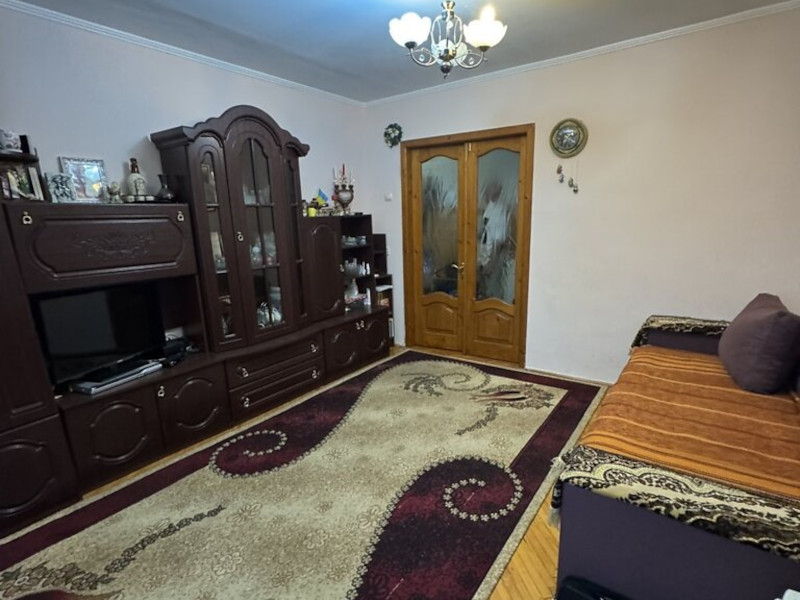
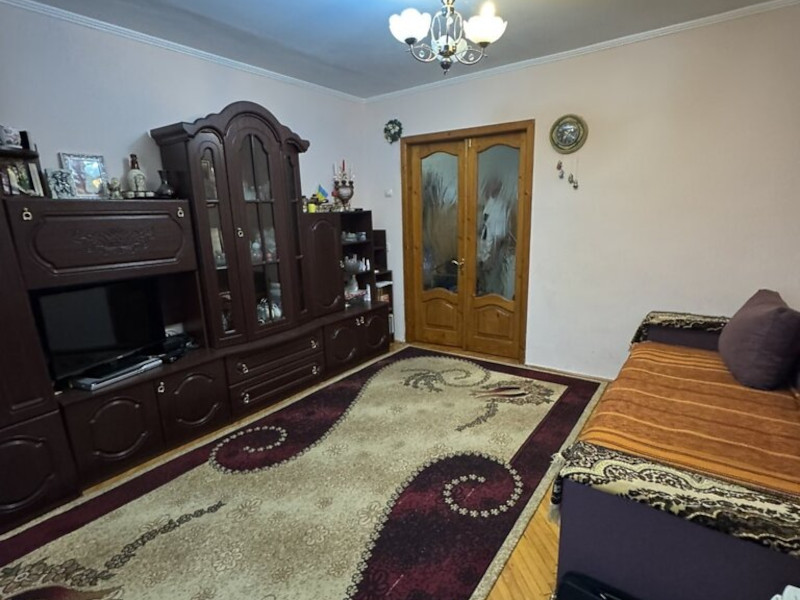
Change #5176

diff --git a/region/city/bolekhiv/apartment/_posts/2026-04-24--prodam-kvartyru-1777006761.md b/region/city/bolekhiv/apartment/_posts/2026-04-24--prodam-kvartyru-1777006761.md
@@ -1,0 +1,25 @@
+---
+last_modified_at: 2026-04-24T00:00:00+02:00
+title: "Продаж однокімнатної квартири 75 м² на першому поверсі у одноповерховому будинку на Данила Галицького"
+seo: "продам квартира власника"
+uid: 1777006761
+type: Квартира
+rent: 
+rooms: '1'
+surface: '75'
+surface_land: '1 027'
+price: $19500
+price_sqmt: 
+floor: '1'
+floors: '1'
+parking: Прибудинкова територія
+region: 
+location: м. Болехів
+address: вул. Данила Галицького, 64
+object: 
+coordinates: 49.062413,23.865282
+date: 2026-04-24T00:00:00.001Z
+seller: Назарій Федунишин
+phone: 380951704271
+description: Вторинна житлова нерухомість, добротне житло з меблями і технікою, придатне і готове для проживання
+---

diff --git a/region/city/ivano-frankivsk/apartment/_posts/2026-04-24-prodam-1777005874.md b/region/city/ivano-frankivsk/apartment/_posts/2026-04-24-prodam-1777005874.md
@@ -1,0 +1,25 @@
+---
+last_modified_at: 2026-04-24T00:00:00+02:00
+title: Продаю двокімнатну квартиру 59.6 м² біля озера на Мазепи 
+seo: продам квартиру власник
+uid: 1777005874
+type: Квартира
+rent:
+rooms: '2'
+surface: '59.6'
+surface_land:
+price: $81000
+price_sqmt:
+floor: '1'
+floors: '11'
+parking: Прибудинкова територія
+region:
+location: м. Івано-Франківськ
+address: вул. Гетьмана Івана Мазепи, 144
+object:
+coordinates: 48.912299,24.689205
+date: 2026-04-24T00:00:00.000Z
+seller: Мар'яна Бойцун
+phone: 380961357081
+description: Вторинна житлова нерухомість, добротне житло з меблями і технікою, придатне і готове для проживання
+---

diff --git a/district/town/dolyna/apartment/_posts/2026-04-24-prodam-kvartyru-1777005386.md b/district/town/dolyna/apartment/_posts/2026-04-24-prodam-kvartyru-1777005386.md
@@ -1,0 +1,27 @@
+---
+last_modified_at: 2026-04-24T00:00:00+02:00
+title: Продаж чотирикімнатної квартири 73 м² на Хмельницького
+seo: продам власник
+uid: 1777005386
+type: Квартира
+rent:
+rooms: '4'
+surface: '73'
+surface_land:
+price: $42000
+price_sqmt:
+floor: '2'
+floors: '2'
+parking: Прибудинкова територія, гараж
+region:
+location: м. Долина
+address: вул. Богдана Хмельницького, 45А
+object:
+coordinates: 48.980824,23.969262
+date: 2026-04-24T00:00:00.000Z
+seller: Тетяна Романюк
+phone: 380503720737
+description: Вторинна житлова нерухомість, придатне для проживання
+---
+
+Є сад, город, сарай, кладова, підвал, гараж

diff --git a/district/town/kosiv/apartment/_posts/2026-04-24-prodam-kvartyru-1777004265.md b/district/town/kosiv/apartment/_posts/2026-04-24-prodam-kvartyru-1777004265.md
@@ -1,0 +1,24 @@
+---
+last_modified_at: 2026-04-24T00:00:00+02:00
+title: Продаж трикімнатної квартири 66 м² в центрі на Незалежності
+uid: 1777004265
+type: Квартира
+rent:
+rooms: '3'
+surface: '66'
+surface_land:
+price: $60000
+price_sqmt:
+floor: '3'
+floors: '5'
+parking: Прибудинкова територія
+region:
+location: м. Косів
+address: майдан Незалежності, 34
+object:
+coordinates: 48.320336,25.094846
+date: 2026-04-24T19:10:00.000Z
+seller: Мар'ян Ковцуняк
+phone: 380675962601
+description: Вторинне житло відремонтовано з меблями і технікою, індивідуальне опалення, придатне для проживання
+---

diff --git a/region/city/ivano-frankivsk/apartment/_posts/2023-08-01-selling-1690904406.md b/region/city/ivano-frankivsk/apartment/_posts/2023-08-01-selling-1690904406.md
@@ -1,7 +1,7 @@
 ---
 last_modified_at: 2023-08-01T00:00:00+02:00
-title: "Продається трикімнатна квартира 88 м² на четвертому поверсі у 12-поверховому будинку на вул. Гетьмана Івана Мазепи"
-seo: "продам квартира 88 м² від власника в м. Івано-Франківськ"
+title: "Продається трикімнатна квартира 88 м² на четвертому поверсі у 12-поверховому будинку на Івана Мазепи"
+seo: "продам квартира власника"
 uid: 1690904406
 type: Квартира
 rent: 

diff --git a/district/ivano-frankivskyy/house/_posts/2026-04-23-prodam-budynok-1776941136.md b/district/ivano-frankivskyy/house/_posts/2026-04-23-prodam-budynok-1776941136.md
@@ -15,7 +15,7 @@ floors: '2'
 parking: Прибудинкова територія
 region: Івано-Франківський район
 location:
-address: вул. Весняна, 69, с. Угринів, Угринівська сільська територіальна громада, Угринівська сільська територіальна громада
+address: вул. Весняна, 69, с. Угринів, Угринівська сільська територіальна громада
 object:
 coordinates: 48.964871,24.675520
 date: 2026-04-23T00:00:00.000Z
